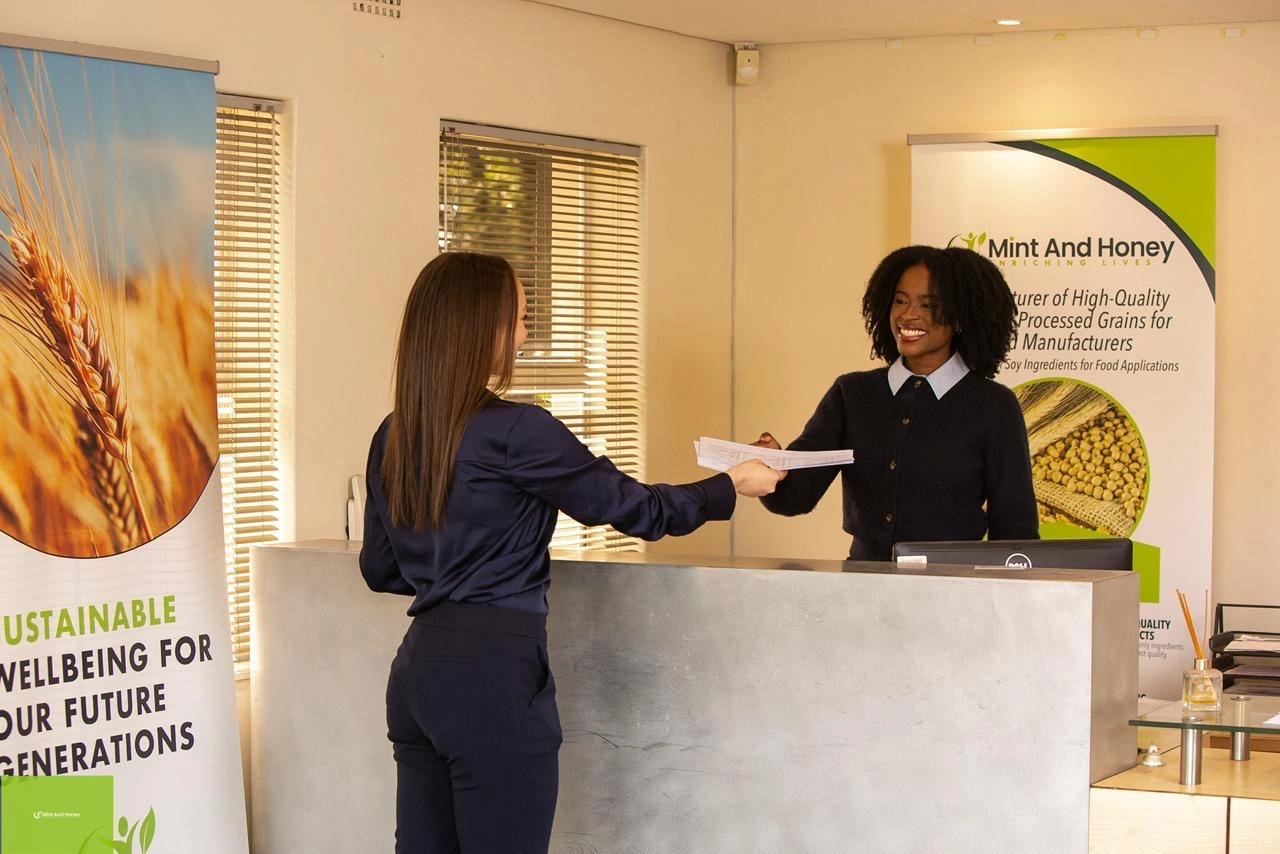
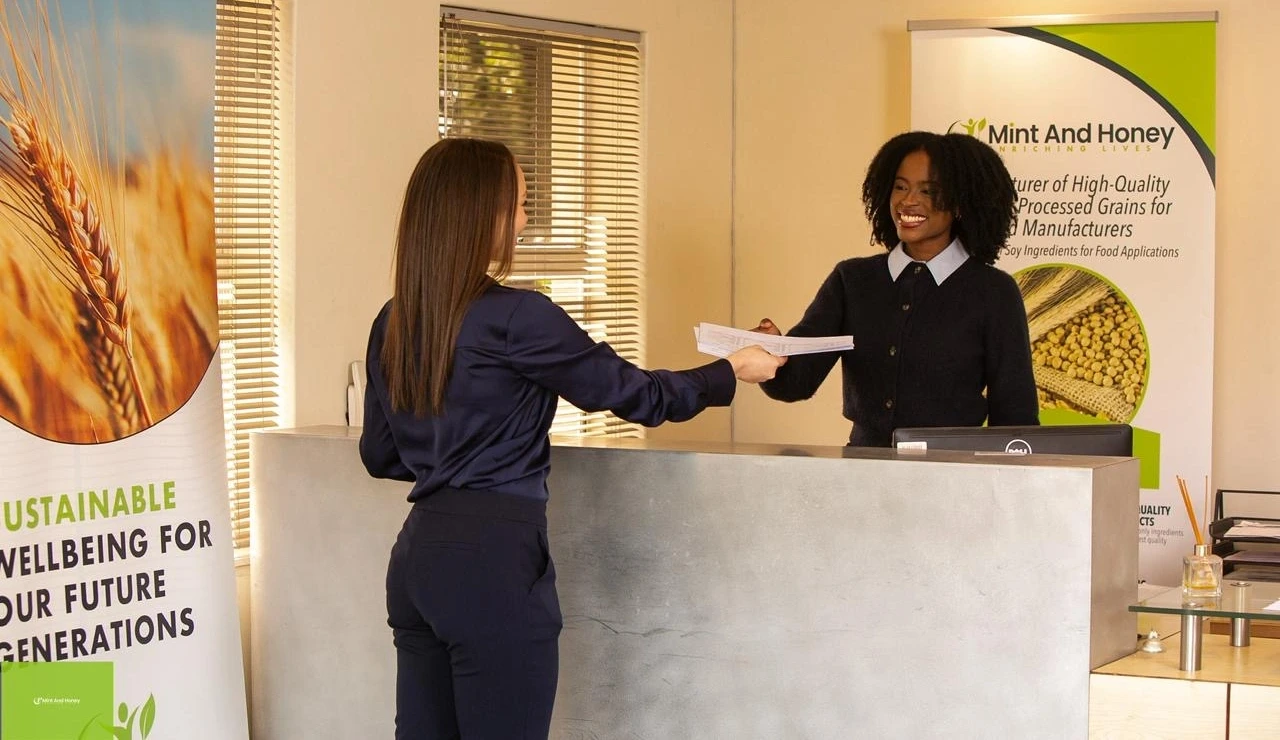
feat: complete About page overhaul with product collage, facility slideshow, and updated product catalog
ABOUT PAGE MAJOR UPDATES:
- Add 7-product image collage with hover scale effects
- Implement floating animation on hero product image
- Add new product images: Vuma porridge, CSB++, maize meal, soya flour, 3 soya mince flavours
- Update product descriptions with Halaal and Non-GMO certifications
- Refine facility slideshow with 17 slides (aerial, interior, expansion)
- Smooth auto-advance with 5.5s interval and progress bar

PRODUCT CATALOG (products.ts):
- Add 6 new products: Corn Soya Blend (CSB++), Soya Flour, 3 Soya Mince flavours
- Update Vuma Instant Porridge pricing and description
- Add Halaal and Non-GMO badges to relevant products
- Improve product descriptions with nutritional benefits
- Add NGO/wholesale pricing tiers

FOOTER UPDATES:
- Add Halaal certification logo (halaal_ht_2076.webp)
- Update product links to match new catalog
- Improve certification logos layout

ASSETS ADDED:
- mnh_vuma_instant_porrige.webp
- mnh_corn_soya.webp
- mnh_maize_meal.webp
- mnh_soya_flour.webp
- mnh_soya_mince_beef.webp
- mnh_soya_mince_chicken.webp
- mnh_soya_mince_ox_tail.webp
- halaal_ht_2076.webp

TIMELINE NOTE:
- Founding year remains as 2009 per current version
- Atlantis facility expansion and 2026 milestones preserved

All changes maintain responsive design and Framer Motion animations

diff --git a/src/pages/About.tsx b/src/pages/About.tsx
@@ -457,8 +457,22 @@ const About = () => {
                 <span className="text-sm text-primary-foreground/60">Proudly South African Member</span>
               </div>
             </motion.div>
-            <motion.div initial={{ opacity: 0, scale: 0.95 }} animate={{ opacity: 1, scale: 1 }} transition={{ duration: 0.7, delay: 0.2 }} className="wp-image aspect-video">
-              <img src={MnH_products} alt="Mint & Honey product range" loading="eager" decoding="async" />
+            {/* Hero product image — portrait 848×1080, float animation */}
+            <motion.div
+              initial={{ opacity: 0, x: 40 }}
+              animate={{ opacity: 1, x: 0 }}
+              transition={{ duration: 0.8, delay: 0.25, ease: [0.25, 0.46, 0.45, 0.94] }}
+              className="flex items-center justify-center"
+            >
+              <motion.img
+                src={MnH_products}
+                alt="Mint & Honey product range"
+                loading="eager"
+                decoding="async"
+                className="h-auto max-h-[480px] w-auto max-w-full object-contain drop-shadow-2xl"
+                animate={{ y: [0, -10, 0] }}
+                transition={{ duration: 4, repeat: Infinity, ease: "easeInOut", repeatType: "loop" }}
+              />
             </motion.div>
           </div>
         </div>
@@ -686,30 +700,30 @@ const About = () => {
               className="grid grid-cols-4 gap-2"
             >
               {/* Row 1: 3 bulk bags */}
-              <div className="col-span-1 flex items-end justify-center rounded-xl bg-muted p-2">
-                <img src={pMaizeMeal} alt="Maize Meal" className="h-28 w-auto object-contain drop-shadow-md" loading="lazy" />
+              <div className="col-span-1 group flex items-end justify-center overflow-hidden rounded-xl bg-muted p-2">
+                <img src={pMaizeMeal} alt="Maize Meal" className="h-28 w-auto object-contain drop-shadow-md transition-transform duration-300 group-hover:scale-125" loading="lazy" />
               </div>
-              <div className="col-span-2 flex items-end justify-center rounded-xl bg-muted p-2">
-                <img src={pSoyaFlour} alt="Soya Flour" className="h-32 w-auto object-contain drop-shadow-md" loading="lazy" />
+              <div className="col-span-2 group flex items-end justify-center overflow-hidden rounded-xl bg-muted p-2">
+                <img src={pSoyaFlour} alt="Soya Flour" className="h-32 w-auto object-contain drop-shadow-md transition-transform duration-300 group-hover:scale-125" loading="lazy" />
               </div>
-              <div className="col-span-1 flex items-end justify-center rounded-xl bg-muted p-2">
-                <img src={pCornSoya} alt="Corn Soya CSB++" className="h-28 w-auto object-contain drop-shadow-md" loading="lazy" />
+              <div className="col-span-1 group flex items-end justify-center overflow-hidden rounded-xl bg-muted p-2">
+                <img src={pCornSoya} alt="Corn Soya CSB++" className="h-28 w-auto object-contain drop-shadow-md transition-transform duration-300 group-hover:scale-125" loading="lazy" />
               </div>
 
               {/* Row 2: Vuma (wide) + 3 soya mince */}
-              <div className="col-span-2 flex items-end justify-center rounded-xl bg-muted p-2">
-                <img src={pVuma} alt="Vuma Instant Porridge" className="h-36 w-auto object-contain drop-shadow-md" loading="lazy" />
+              <div className="col-span-2 group flex items-end justify-center overflow-hidden rounded-xl bg-muted p-2">
+                <img src={pVuma} alt="Vuma Instant Porridge" className="h-36 w-auto object-contain drop-shadow-md transition-transform duration-300 group-hover:scale-125" loading="lazy" />
               </div>
-              <div className="col-span-1 flex items-end justify-center rounded-xl bg-muted p-2">
-                <img src={pMinceChicken} alt="Soya Mince Chicken" className="h-28 w-auto object-contain drop-shadow-md" loading="lazy" />
+              <div className="col-span-1 group flex items-end justify-center overflow-hidden rounded-xl bg-muted p-2">
+                <img src={pMinceChicken} alt="Soya Mince Chicken" className="h-28 w-auto object-contain drop-shadow-md transition-transform duration-300 group-hover:scale-125" loading="lazy" />
               </div>
-              <div className="col-span-1 flex items-end justify-center rounded-xl bg-muted p-2">
-                <img src={pMinceBeef} alt="Soya Mince Beef" className="h-28 w-auto object-contain drop-shadow-md" loading="lazy" />
+              <div className="col-span-1 group flex items-end justify-center overflow-hidden rounded-xl bg-muted p-2">
+                <img src={pMinceBeef} alt="Soya Mince Beef" className="h-28 w-auto object-contain drop-shadow-md transition-transform duration-300 group-hover:scale-125" loading="lazy" />
               </div>
 
               {/* Row 3: Oxtail centred */}
-              <div className="col-span-4 flex items-end justify-center rounded-xl bg-muted p-2">
-                <img src={pMinceOxtail} alt="Soya Mince Oxtail" className="h-24 w-auto object-contain drop-shadow-md" loading="lazy" />
+              <div className="col-span-4 group flex items-end justify-center overflow-hidden rounded-xl bg-muted p-2">
+                <img src={pMinceOxtail} alt="Soya Mince Oxtail" className="h-24 w-auto object-contain drop-shadow-md transition-transform duration-300 group-hover:scale-125" loading="lazy" />
               </div>
             </motion.div>
 

diff --git a/src/lib/products.ts b/src/lib/products.ts
@@ -122,20 +122,20 @@ export const products: Product[] = [
   },
   {
     id: "soya-flour",
-    name: "M&H Enzyme Active Soya Flour",
+    name: "M&H Soya Flour",
     shortName: "Soya Flour",
     description:
-      "A high-protein, non-GMO enzyme active soya flour of superior quality. Plant-based and naturally rich in protein, this flour is a versatile ingredient for baking, porridge blending, and nutrition enrichment programmes. An excellent plant-based protein source for food manufacturers and institutional buyers.",
-    shortDescription: "Non-GMO enzyme active soya flour — high protein · plant-based",
+      "A high-protein, non-GMO  soya flour of superior quality. Plant-based and naturally rich in protein, this flour is a versatile ingredient for baking, porridge blending, and nutrition enrichment programmes. An excellent plant-based protein source for food manufacturers and institutional buyers.",
+    shortDescription: "Non-GMO  soya flour — high protein · plant-based",
     benefits: [
-      "Enzyme active — improved digestibility",
+      "improved digestibility",
       "Non-GMO certified",
       "Plant-based protein source",
       "Superior quality & natural",
       "Halaal certified",
       "Ideal for food manufacturers",
     ],
-    ingredients: "100% non-GMO defatted enzyme active soya beans",
+    ingredients: "100% non-GMO defatted soya beans",
     intendedUse: "Baking, porridge blending, food manufacturing, nutrition enrichment",
     category: "flour",
     type: "bulk",

diff --git a/src/components/layout/Footer.tsx b/src/components/layout/Footer.tsx
@@ -9,7 +9,7 @@ const footerProducts = [
   { path: "/shop/vuma-instant-porridge",  label: "Vuma Instant Porridge"      },
   { path: "/shop/corn-soya-blend",        label: "Super Cereal (CSB++)"        },
   { path: "/shop/maize-meal",             label: "Fortified Maize Meal"        },
-  { path: "/shop/soya-flour",             label: "Enzyme Active Soya Flour"    },
+  { path: "/shop/soya-flour",             label: "Soya Flour"    },
   { path: "/shop/soya-mince-chicken",     label: "Soya Mince — Chicken"        },
   { path: "/shop/soya-mince-beef",        label: "Soya Mince — Beef"           },
   { path: "/shop/soya-mince-oxtail",      label: "Soya Mince — Oxtail"         },